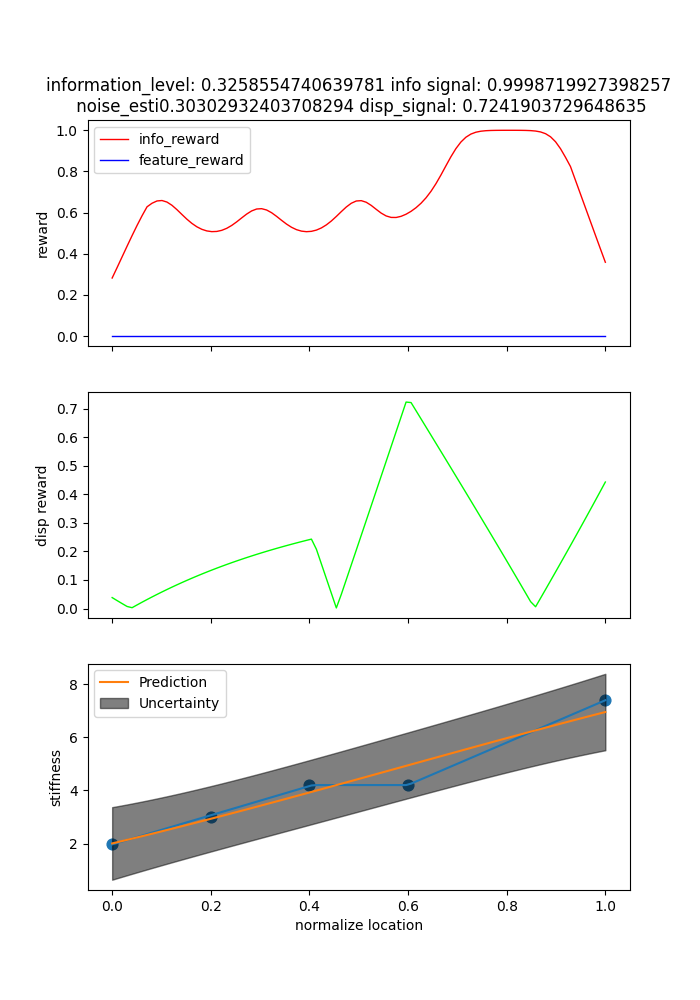
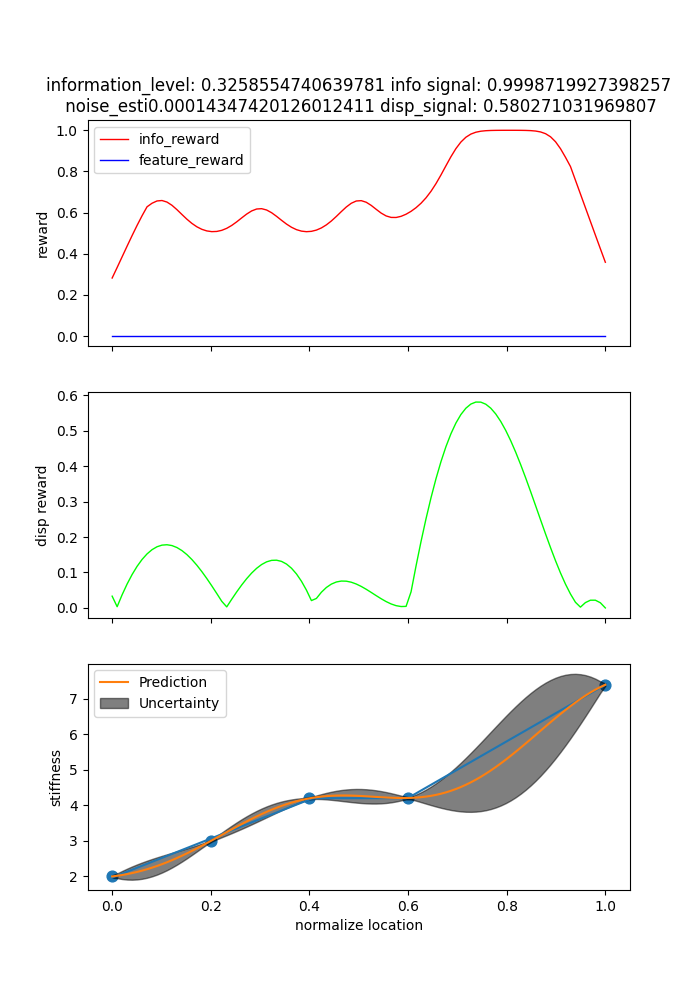
feat: test the bounded gaussian process

diff --git a/flask/multiObjectiveDecisionMaking/gaussian_estimation.py b/flask/multiObjectiveDecisionMaking/gaussian_estimation.py
@@ -45,12 +45,13 @@ def Gaussian_Estimation(x, y, prediction_range,  optimizer, noise_level, length_
     noise_level = noise_level
     length_scale = length_scale
     sigma_f = sigma_f * sigma_f
-    kernel = C(sigma_f) * RBF(length_scale) + WhiteKernel(noise_level)
+    kernel = C(sigma_f) * RBF(length_scale,(0.1, 0.3)) + WhiteKernel(noise_level, (0, 0.2))
 
     # Instantiate the Gaussian Process Regressor
     if(not optimizer):
         gp = GaussianProcessRegressor(kernel=kernel, n_restarts_optimizer=0, random_state=0, optimizer=None)
     else:
+        print('ssssssssssssss')
         gp = GaussianProcessRegressor(kernel=kernel)
     x = np.array([x])
     x = x.T
@@ -62,7 +63,8 @@ def Gaussian_Estimation(x, y, prediction_range,  optimizer, noise_level, length_
     X_new = X_new.T
     y_pred, y_std = gp.predict(X_new, return_std=True)
     information = np.exp(-np.square(y_std))
-    return y_pred, information, y_std
+    noise_level_optimized = gp.kernel_.get_params()["k2__noise_level"]
+    return y_pred, information, y_std, noise_level_optimized
 
 if __name__ == "__main__":
     # X = np.array([3,     7,    10,    13,    16,    19,
@@ -70,13 +72,14 @@ if __name__ == "__main__":
     #     3 ,    7,    10,    13,    16,    19,
     #     3,     7,    10 ,   13,    16,    19])
     X = np.array([0.0, 0.1, 0.3, 0.5, 0.9])
-    y = np.array([1.964, 2.85, 3.056, 5.68, 4.915])
+    y = np.array([1.964, 2.85, 3.056, 5.68, 5.68])
     # y = np.array([0.0992,    7.2285,    9.1036,    7.8270,    7.5175,    6.6421,
     #     2.0124,    8.6191,    9.8502,    7.4650 ,   7.2727,    8.5219,
     #     0.6216,    6.4378,    8.7138 ,   6.3152 ,   6.4360,    9.2684,
     #     1.3204,    7.0980,    8.5359 ,   7.8082 ,  8.5036 ,    7.4663,])
 
-    y_pred, information_gaussian, y_std = Gaussian_Estimation(X,  y,   np.linspace(0, 1, 1000), True, 0.2, 0.15, 4)
+    y_pred, information_gaussian, y_std, noise_est = Gaussian_Estimation(X,  y,   np.linspace(0, 1, 1000), True, 0.2, 0.15, 4)
+    print('esti noise', noise_est)
     print(y_std)
     window_size =151
     half_window = window_size // 2  # integer division to get half window size

diff --git a/flask/multiObjectiveDecisionMaking/decision_making.py b/flask/multiObjectiveDecisionMaking/decision_making.py
@@ -13,7 +13,7 @@ from scipy.interpolate import interp1d
 from hypothesisRegulation.hypothesis import *
 from sklearn.gaussian_process import GaussianProcessRegressor
 from sklearn.gaussian_process.kernels import RBF, ConstantKernel as C, WhiteKernel
-
+from datetime import datetime
 
 '''Generates a Gaussian estimation using Gaussian Process Regression.
 Args:
@@ -36,7 +36,7 @@ def Gaussian_Estimation(x, y, prediction_range,  optimizer, noise_level, length_
     noise_level = noise_level
     length_scale = length_scale
     sigma_f = sigma_f * sigma_f
-    kernel = C(sigma_f) * RBF(length_scale) + WhiteKernel(noise_level)
+    kernel = C(sigma_f) * RBF(length_scale,(0.1, 0.3)) + WhiteKernel(noise_level, (0, 0.2))
        
     # Instantiate the Gaussian Process Regressor
     if(not optimizer):
@@ -404,7 +404,7 @@ def plot_test(location, detail_location, erodi, info_gaussian, information_level
     axs[2].set_ylabel('stiffness')
     axs[2].set_xlabel('normalize location') 
     axs[2].legend()
-    plt.savefig('./figs_test/'+ 'num' + str(len(location)) + str(location) + '.png')
+    plt.savefig('./figs_test/'+ 'num' + str(len(location)) + str(location) + str(datetime.now().strftime("%Y%m%d_%H%M%S")) + '.png')
 
 
 def plot(Traveler_DM, Traveler_ENV,sequence, location, sample, mm, erodi, results):
